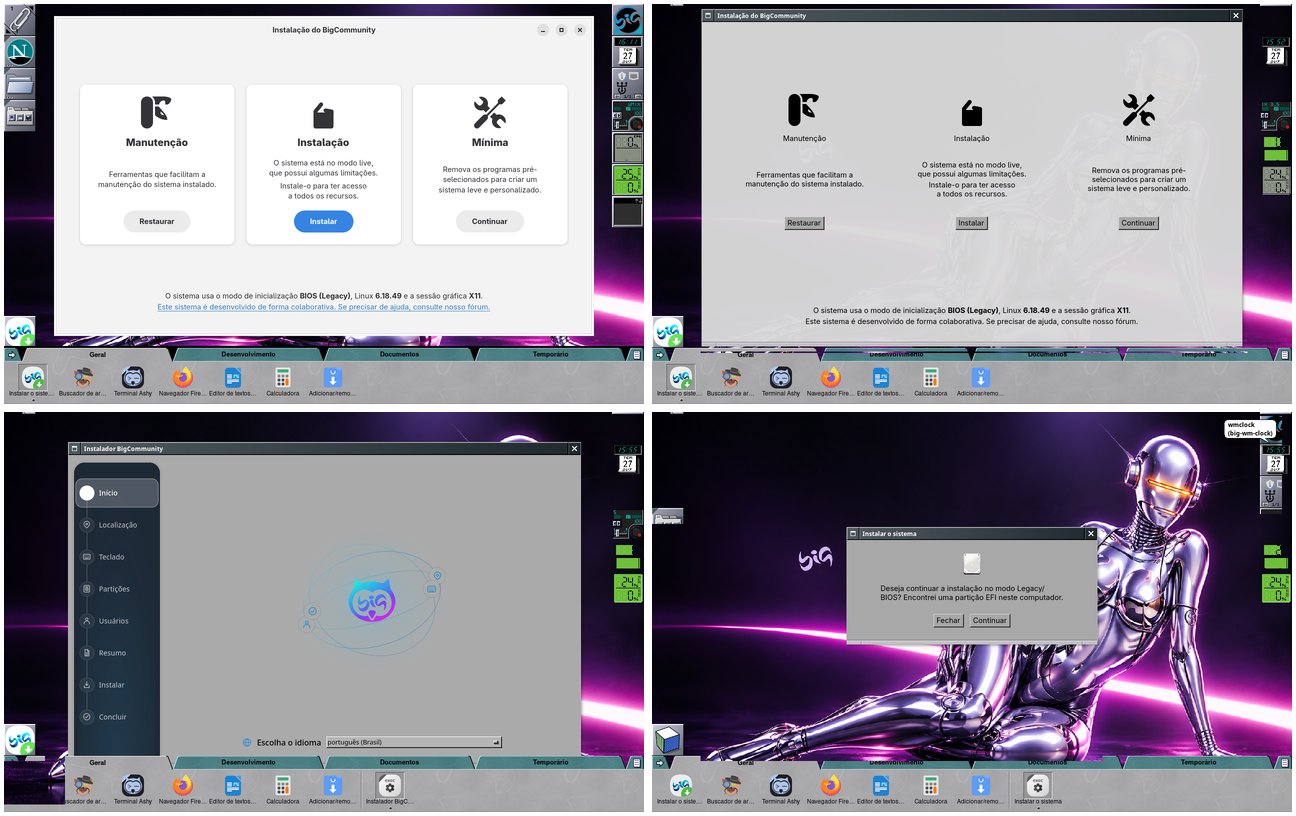
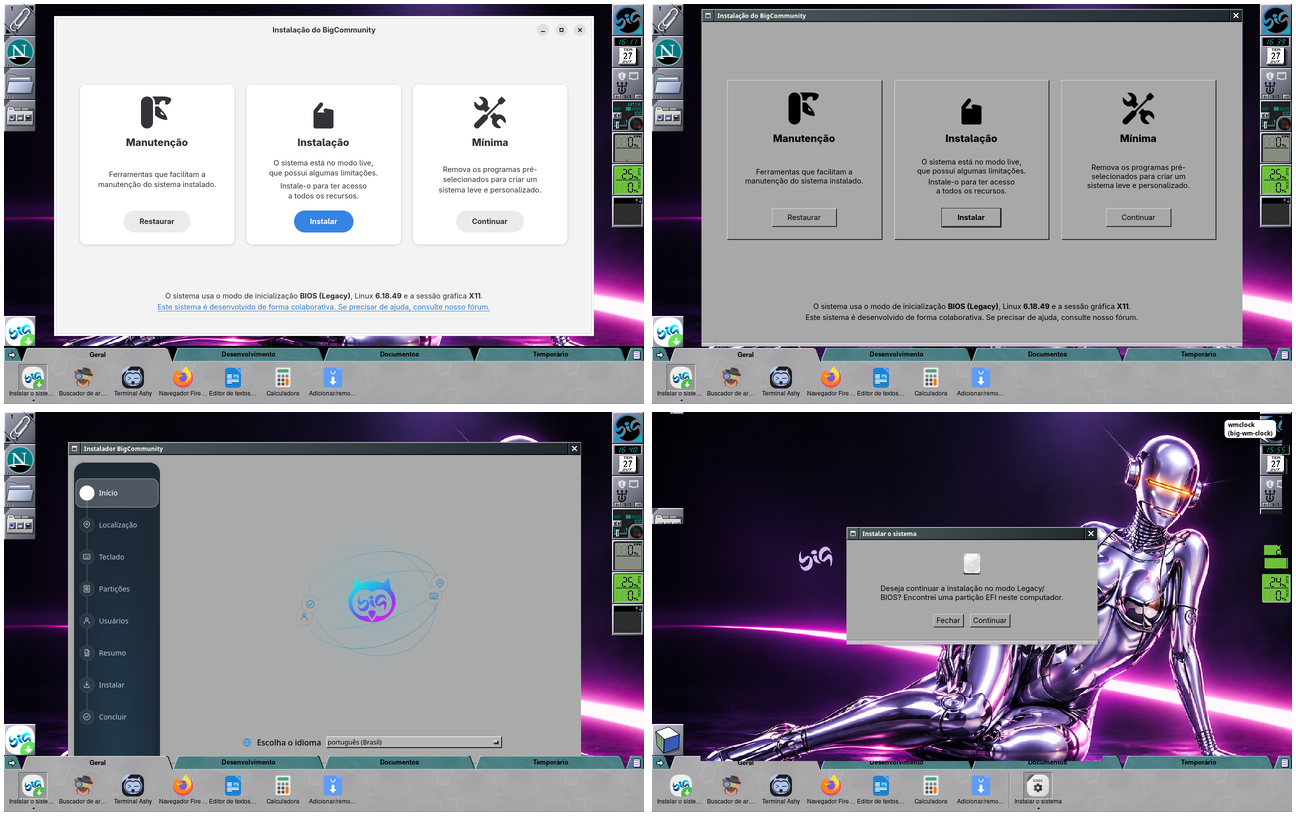
Documentação: classes do libadwaita, Wayland e o instalador opaco
aparencia.md: o libadwaita com as classes desenhadas pelo
onestepback-gtk-theme 0.997-5 (cartões, listas em caixa, botões de ação,
página de status, avisos, títulos), claro e escuro; os toolkits no
wlmaker aninhado (GTK 3, GTK 4, libadwaita, Qt 5 e Qt 6); o instalador
opaco e agrupado no ícone dele no dock; e o vigia do gtk-nocsd, que reabre
um programa travado sem a biblioteca. Capturas novas: libadwaita.png,
toolkits-wayland.png e instalador-live.png refeita.

diff --git a/docs/aparencia.md b/docs/aparencia.md
@@ -122,7 +122,7 @@ sistema na edição wmaker da ISO.
 | GTK 2 | OneStepBack (`gtk-2.0`, motor pixmap do próprio gtk2) | `GTK2_RC_FILES` = gtkrc do tema do `GTK_THEME` + `~/.gtkrc-2.0` (`big-wm-env.sh`) | contêiner, `gtk-demo` |
 | GTK 3 | OneStepBack, barra de título do Window Maker | `GTK_THEME` + gtk-nocsd (`LD_PRELOAD`) | contêiner (`gtk3-demo`), live |
 | GTK 4 | idem | idem | contêiner, `gtk4-demo` |
-| libadwaita | cinzas do OneStepBack, barra do Window Maker; botões do tema, mas os cartões (`.card`) e outras classes próprias do libadwaita ficam sem desenho | `GTK_THEME` faz o libadwaita trocar a folha de estilo dele pela do tema; as cores nomeadas vêm do `libadwaita.css` do pacote | contêiner (`gnome-calculator`), instalador no live |
+| libadwaita | cinzas do OneStepBack, barra do Window Maker; cartões, listas em caixa, botões de ação, página de status, avisos e títulos com o relevo do tema | `GTK_THEME` faz o libadwaita trocar a folha de estilo dele pela do tema; as cores nomeadas e as classes próprias do libadwaita vêm do `libadwaita.css` e do `libadwaita-widgets.css` do pacote (0.997-5) | contêiner (`gnome-calculator`, `adwaita-1-demo`, claro e escuro), instalador no live |
 | Qt 5 | QTStep | `QT_STYLE_OVERRIDE=kvantum` + `kvantum-qt5` (na lista da ISO) | contêiner, `qt5ct` |
 | Qt 6 | QTStep | `QT_STYLE_OVERRIDE=kvantum` + `kvantum` | contêiner (`qt6ct`), Calamares no live |
 | Aplicativos do D-Bus e do `systemd --user` | iguais aos de cima | `big-wm-session-ctl` exporta `GTK_THEME`, `GTK2_RC_FILES`, `LD_PRELOAD` e `QT_*` | — |
@@ -137,6 +137,22 @@ cores de destaque, o esquema claro/escuro e os diálogos de arquivo do portal.
 Sem o `kvantum-qt5` o Qt 5 avisa "invalid style override" e cai no Fusion.
 
 ![GTK 2, GTK 3, GTK 4, libadwaita, Qt 5 e Qt 6 no Window Maker](screenshots/toolkits.png)
+
+Na sessão Wayland vale o mesmo ambiente; a barra é a do wlmaker (GTK pelo
+protocolo de decoração do KDE com o gtk-nocsd, Qt pelo xdg-decoration).
+Conferido com o wlmaker aninhado no Xvfb (`WLR_BACKENDS=x11`):
+
+![GTK 3, GTK 4, libadwaita, Qt 5 e Qt 6 no wlmaker](screenshots/toolkits-wayland.png)
+
+As classes próprias do libadwaita (cartões, listas em caixa, botões pílula,
+de ação e destrutivos, barra lateral de navegação, página de status, grupos
+de preferências, avisos, `.osd`, títulos) não existem no OneStepBack: o
+`onestepback-gtk-theme` (0.997-5) as desenha com o relevo do tema e só com
+nomes de cor, então valem também no OneStepBack-Dark. O botão padrão
+(`.suggested-action`) fica em negrito com um filete preto, como no
+NeXTSTEP.
+
+![adwaita-1-demo (listas em caixa, avisos) claro e escuro e o instalador no escuro](screenshots/libadwaita.png)
 
 ### Programas como root
 
@@ -200,6 +216,13 @@ falhas do gtk-nocsd 4.x, que reabre o programa sem a biblioteca se ele
 travar. Não é o programa aberto duas vezes; usa cerca de 2 MB e não há
 opção para desligá-lo sem desligar o gtk-nocsd.
 
+Quando o programa trava, esse vigia o reabre **sem** o gtk-nocsd
+(`LD_PRELOAD=` vazio) e fora do controle do systemd (o processo principal
+da unidade já morreu). Visto no Dock com Abas na VM live, depois de o
+binário ser trocado com o dock aberto: o dock reaberto pelo vigia tinha
+`LD_PRELOAD=` vazio, e os programas abertos por ele vinham com a headerbar. Fechar o dock e abri-lo de novo (ou sair e entrar na
+sessão) resolve.
+
 ## Instalador do sistema live
 
 No live, o Dock com Abas mostra "Instalar o sistema no HD" como primeiro ícone
@@ -222,11 +245,18 @@ do `kvantum.kvconfig` do usuário). Já como root,
 Com isso os diálogos (`gtk_dialog.py`) e a tela inicial do instalador
 (`main.py`, GTK 4/libadwaita) abrem com `GTK_THEME` e o gtk-nocsd (barra do
 Window Maker em vez da headerbar), e o Calamares com o Kvantum do usuário em
-`/root/.config/Kvantum/kvantum.kvconfig`. Fora do Big WindowMaker nada muda:
+`/root/.config/Kvantum/kvantum.kvconfig`. As janelas GTK recebem também
+`BIGLINUX_WINDOW_MAKER=1`, que tira o fundo 3% translúcido (efeito "vidro"
+pensado para o Plasma e o GNOME): no Window Maker as janelas são painéis
+opacos, e o papel de parede aparecia através da tela inicial. O `.desktop`
+do instalador tem `StartupWMClass=calamares`, a classe da janela do
+Calamares: no Dock com Abas ele fica junto do ícone "Instalar o sistema no
+HD", com o ícone do instalador (no Wayland o dock também reconhece o
+app_id `io.calamares.calamares` pelo último nome). Fora do Big WindowMaker nada muda:
 o instalador continua claro, com o tema do BigLinux. No Big WindowMaker ele
 segue o tema Kvantum do usuário, também o escuro.
 
-![Instalador no live: antes (headerbar do libadwaita) e depois (barra do Window Maker), Calamares com QTStep e diálogo GTK](screenshots/instalador-live.png)
+![Instalador no live: antes (headerbar do libadwaita) e depois (barra do Window Maker, cartões no relevo do tema), Calamares com QTStep agrupado no ícone do instalador e diálogo GTK](screenshots/instalador-live.png)
 
 ![GParted como root pelo pkexec: antes e com /etc/gtk-3.0/settings.ini](screenshots/root-gparted.png)
 
